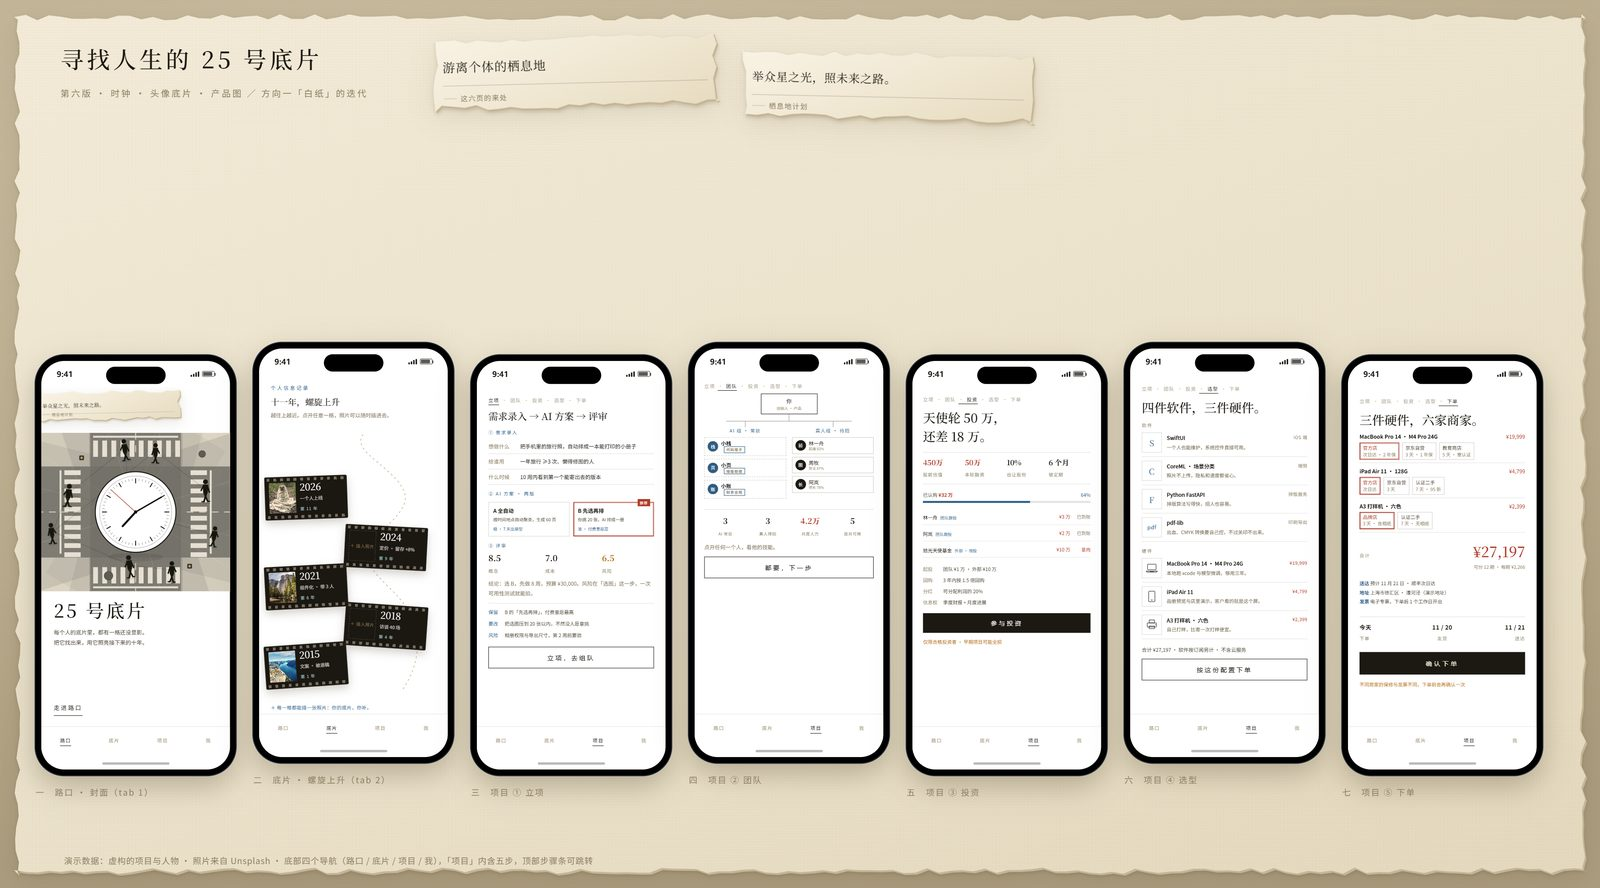
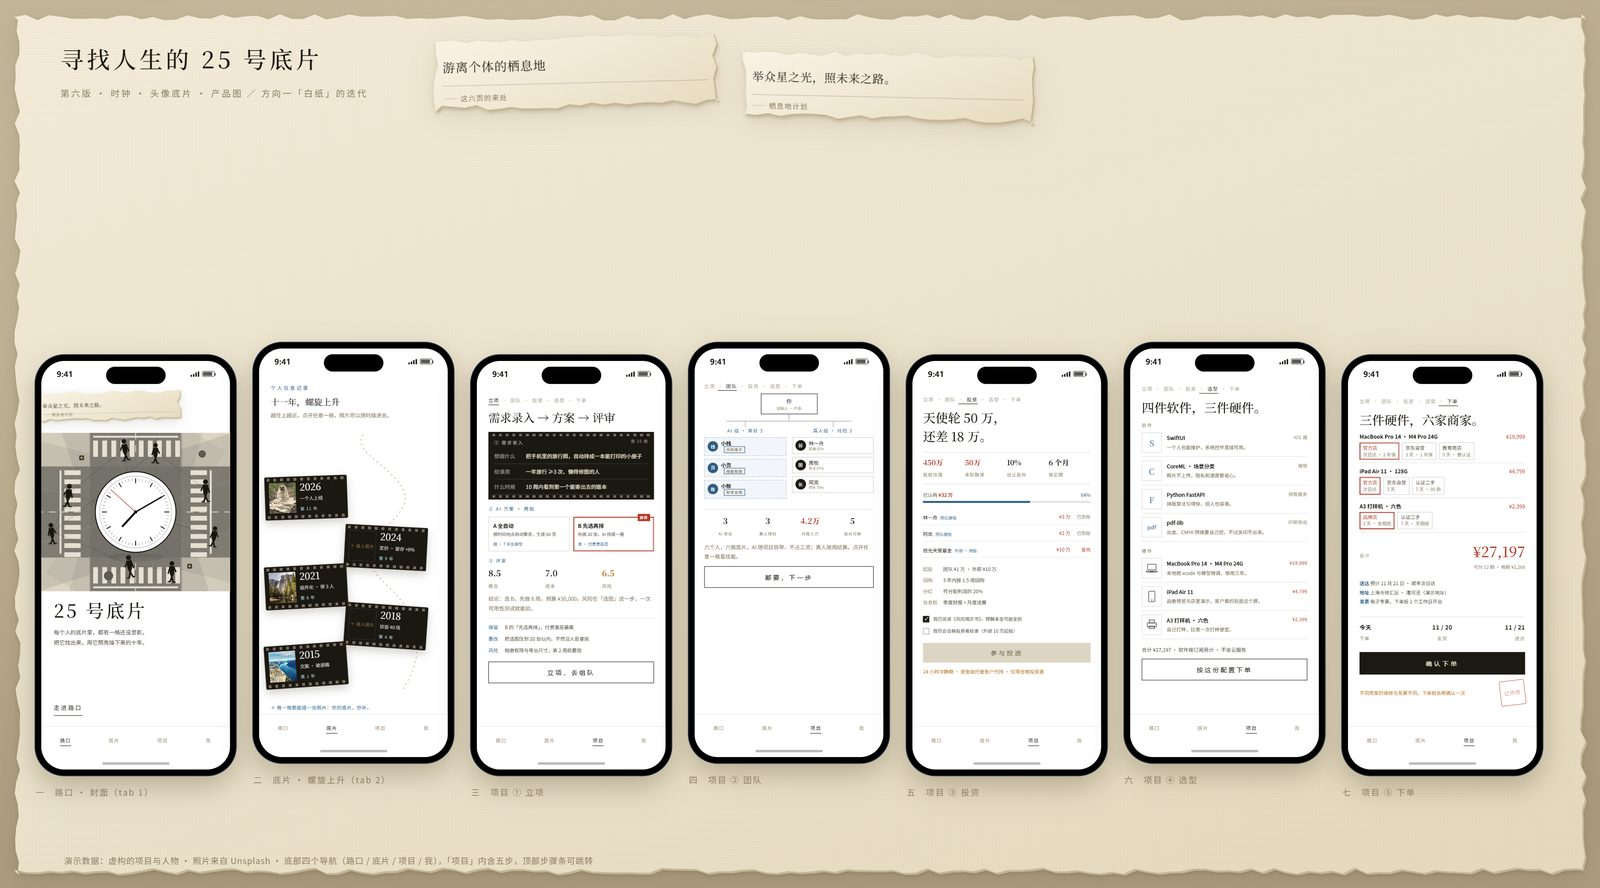
v1.0：底片贯穿、投资合规、AI/真人分层、字号与配色收尾

diff --git a/design-demos/dir-1-v6.html b/design-demos/dir-1-v6.html
@@ -392,6 +392,28 @@
   .mem .mt b { color: #2B5C86; }
   .fine { color: #B4701F; }
   .ship b { color: #2B5C86; font-weight: 600; }
+  /* ---------- 底片贯穿：立项胶片框 / 下单印章 / 合规勾选 ---------- */
+  .framefilm { background: #1B1711; padding: 15px 12px 10px; position: relative; overflow: hidden; }
+  .framefilm::before, .framefilm::after { content: ""; position: absolute; left: 8px; right: 8px; height: 5px;
+    background: repeating-linear-gradient(90deg, rgba(240,230,205,.42) 0 6px, transparent 6px 14px); }
+  .framefilm::before { top: 4px; }
+  .framefilm::after { bottom: 4px; }
+  .framefilm .lb { color: rgba(255,255,255,.55); }
+  .framefilm .fnum { position: absolute; right: 12px; top: 13px; font-size: 8px; letter-spacing: .16em; color: rgba(255,255,255,.45); }
+  .framefilm .req .row { border-bottom-color: rgba(255,255,255,.14); color: #F2EADA; }
+  .framefilm .req .row span { color: rgba(255,255,255,.5); }
+  .order { position: relative; }
+  .stamp { flex: none; width: 52px; height: 52px; border: 1.6px solid #B03A28;
+    color: #B03A28; border-radius: 3px; display: flex; align-items: center; justify-content: center;
+    transform: rotate(-7deg); font-family: "Noto Serif SC", serif; font-size: 10.5px; letter-spacing: .1em; opacity: .8; display: flex; align-items: center; justify-content: center; }
+  .comply { margin-top: 12px; }
+  .ck { display: flex; gap: 8px; align-items: flex-start; font-size: 9.5px; line-height: 1.6; color: #4A4334; padding: 5px 0; cursor: pointer; }
+  .ck i { width: 13px; height: 13px; border: 1px solid rgba(28,25,19,.45); flex: none; margin-top: 1px; position: relative; }
+  .ck.on i { background: #1C1913; border-color: #1C1913; }
+  .ck.on i::after { content: "✓"; position: absolute; inset: 0; color: #fff; font-size: 9px; display: flex; align-items: center; justify-content: center; }
+  .invbtn.off { background: #DDD5C4; color: #6E6349; cursor: not-allowed; }
+  .invbtn.off:hover { background: #C6BEAD; }
+  .org .node.ai { background: #F2F6FA; border-color: #A8BDD0; }
 </style>
 </head>
 <body>
@@ -493,9 +515,10 @@
   <div class="scr" data-name="project">
     <div class="proj">
       <div class="steps"><span data-step="project">立项</span><span data-step="team">团队</span><span data-step="invest">投资</span><span data-step="tech">选型</span><span data-step="order">下单</span></div>
-      <div class="h1" style="margin-top: 8px; font-size: 20px;">需求录入 → AI 方案 → 评审</div>
+      <div class="h1" style="margin-top: 8px; font-size: 24px;">需求录入 → 方案 → 评审</div>
 
-      <div class="pblock">
+      <div class="pblock framefilm">
+        <div class="fnum">第 25 格</div>
         <div class="lb">① 需求录入</div>
         <div class="req">
           <div class="row"><span>想做什么</span><div>把手机里的旅行照，自动排成一本能打印的小册子</div></div>
@@ -551,13 +574,13 @@
       <div class="bar"></div>
       <div class="cols">
         <div class="col">
-          <div class="gl">AI 组 · 常驻</div>
+          <div class="gl">AI 组 · 常驻 3</div>
           <div class="node ai" data-mem="zhan"><div class="av">栈</div><div class="nm">小栈<i>代码搭子</i></div></div>
           <div class="node ai" data-mem="ye"><div class="av">页</div><div class="nm">小页<i>排版助理</i></div></div>
           <div class="node ai" data-mem="zhang"><div class="av">账</div><div class="nm">小账<i>财务合规</i></div></div>
         </div>
         <div class="col">
-          <div class="gl">真人组 · 待招</div>
+          <div class="gl">真人组 · 待招 3</div>
           <div class="node" data-mem="lin"><div class="av">前</div><div class="nm">林一舟<i>前端 92%</i></div></div>
           <div class="node" data-mem="zhou"><div class="av">图</div><div class="nm">周牧<i>算法 87%</i></div></div>
           <div class="node" data-mem="lan"><div class="av">长</div><div class="nm">阿岚<i>增长 78%</i></div></div>
@@ -569,7 +592,7 @@
         <div><b class="money">4.2万</b><span>月度人力</span></div>
         <div><b>5</b><span>首月可用</span></div>
       </div>
-      <div class="tiny" style="margin-top: 10px;">点开任何一个人，看他的技能。</div>
+      <div class="tiny" style="margin-top: 10px;">六个人，六格底片。AI 随项目自带、不占工资；真人按周结算。点开任意一格看技能。</div>
       <button class="allin" data-go="tech" style="margin-top: 10px;">都要，下一步</button>
     </div>
   </div>
@@ -607,8 +630,12 @@
         <div><span>信息权</span>季度财报 + 月度进展</div>
       </div>
 
-      <button class="invbtn">参与投资</button>
-      <div class="fine" style="margin-top: 10px;">仅限合格投资者 · 早期项目可能全损</div>
+      <div class="comply">
+        <div class="ck on" data-ck="risk"><i></i><span>我已阅读《风险揭示书》，理解本金可能全损</span></div>
+        <div class="ck" data-ck="q"><i></i><span>我符合合格投资者标准（外部 10 万起投）</span></div>
+      </div>
+      <button class="invbtn off" disabled>参与投资</button>
+      <div class="fine" style="margin-top: 10px;">24 小时冷静期 · 资金由托管账户代持 · 仅限合格投资者</div>
     </div>
   </div>
 </template>
@@ -730,7 +757,10 @@
       </div>
 
       <button class="confirm" data-go="cover">确认下单</button>
-      <div class="fine">不同商家的保修与发票不同，下单前会再确认一次</div>
+      <div class="fine" style="display: flex; justify-content: space-between; align-items: center; gap: 12px;">
+        <span>不同商家的保修与发票不同，下单前会再确认一次</span>
+        <span class="stamp">已冲洗</span>
+      </div>
     </div>
   </div>
 </template>
@@ -1088,6 +1118,16 @@
     // 投资认购
     let amt = 5;
     const invBtn = phone.querySelector('.invbtn');
+    const cks = phone.querySelectorAll('.ck');
+    cks.forEach((c) => c.addEventListener('click', (e) => {
+      e.stopPropagation();
+      c.classList.toggle('on');
+      const ok = [...cks].every((x) => x.classList.contains('on'));
+      if (invBtn) {
+        invBtn.disabled = !ok;
+        invBtn.classList.toggle('off', !ok);
+      }
+    }));
     if (invBtn) {
       invBtn.addEventListener('click', (e) => {
         e.stopPropagation();

diff --git a/README.md b/README.md
@@ -18,11 +18,28 @@
 |---|---|
 | 路口 | 封面：夜晚的路口、一只占满路口的钟、被细线牵着走的人 |
 | 底片 | 十一年个人信息，螺旋上升的胶片格，可插照片 |
-| 项目 ① 立项 | 需求录入 → AI 两版方案 → 评审（概念/成本/风险） |
-| 项目 ② 团队 | 组织架构，AI 成员与待招真人分开，点头像看技能与个人底片 |
-| 项目 ③ 投资 | 天使轮：估值、出让、认购进度、团队跟投与外部机构、条款 |
+| 项目 ① 立项 | 需求录入（黑底胶片框，第 25 格）→ AI 两版方案 → 评审（概念/成本/风险） |
+| 项目 ② 团队 | 组织架构：常驻 AI 与待招真人两层，点头像看技能与个人底片 |
+| 项目 ③ 投资 | 天使轮：估值、出让、认购进度、团队跟投与外部机构、条款；勾选风险揭示与合格投资者后才能认购 |
 | 项目 ④ 选型 | 四件软件三件硬件，带产品图与选型理由 |
-| 项目 ⑤ 下单 | 同一件硬件多家商家可选，价格与合计实时联动 |
+| 项目 ⑤ 下单 | 同一件硬件多家商家可选，价格与合计实时联动，末尾盖「已冲洗」 |
+
+### 四处收尾
+
+- **底片贯穿**：立项的「需求录入」做成黑底胶片框（第 25 格，带齿孔），下单页盖「已冲洗」印，第 2 页的胶片意象不再只停在前两屏。
+- **投资合规**：风险揭示勾选 + 合格投资者认证，两项都勾才解锁「参与投资」；补充 24 小时冷静期与资金托管说明。
+- **AI / 真人分层**：AI 成员浅蓝底虚线框、标注「常驻」；真人实线框、标注匹配度与可接档日。
+- **字号与色彩**：正文 ≥11px、标题 26px；红色只表示钱，匹配度用蓝、风险与合规提示用橙。
+
+<table>
+<tr>
+<td><img src="docs/images/project.jpg" width="220"></td>
+<td><img src="docs/images/team.jpg" width="220"></td>
+<td><img src="docs/images/invest.jpg" width="220"></td>
+<td><img src="docs/images/me.jpg" width="220"></td>
+</tr>
+</table>
+
 
 ## 目录
 
@@ -45,7 +62,7 @@ index.html      指向原型的入口（给 GitHub Pages 用）
 ## 已知限制
 
 - 头像是剪影示意，不是真人照片。
-- 投资页只有一行合规提示，缺风险揭示书、合格投资者认证、冷静期等真实流程。
+- 投资流程只做了勾选与冷静期提示，未做真实的风险揭示书签署、合格投资者认证核验与资金托管。
 - 设计体检脚本 `design_lint.py` 未跑（本机缺 Python 版 Playwright），视觉问题靠逐屏截图人工核对。
 
 ## License

diff --git a/polish-log.md b/polish-log.md
@@ -125,3 +125,13 @@
 - 测试脚本跟着改：tab 数从 7 到 4，步骤条选择器要加 .first()（五页各有一条）。
 
 验证：桌面 4 个 tab 全通、13 处跳转无报错；步骤条点「下单」正确切页且 tab 仍高亮「项目」；「我 → 我的认购」跳转正确；手机模式页码变 1–4，滑动与弹层正常。
+
+## 第 11 轮（收尾四项）
+
+- 底片贯穿：立项的「需求录入」改成黑底胶片框（上下齿孔 + 右上「第 25 格」），与第 2 页的胶片卡同一套语言；下单页在条款行尾加「已冲洗」红印章（内联，不压按钮）。
+- 投资合规：加「我已阅读《风险揭示书》」「我符合合格投资者标准」两个勾选项，两项都勾才解锁「参与投资」（禁用态灰底深字）；底注补 24 小时冷静期与托管账户。
+- AI / 真人分层：AI 节点浅蓝底 + 虚线框 + 蓝头像，组头写「常驻 3」；真人实线框、组头写「待招 3」；说明改「六个人，六格底片」。
+- 收尾：立项标题统一到 24px；更新 README（页面表、四处收尾、配图、已知限制）；重截整版与逐屏图。
+- 测试补一条：合规未勾时按钮 disabled，勾选后解锁，再走完认购（32 万 → 42 万，64% → 84%）。
+
+验证：桌面 4 tab / 13 处跳转 0 报错；成员弹层、商家联动、我页跳转、手机模式 1/4 全通过。
